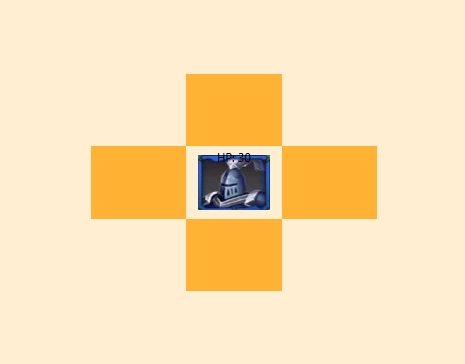
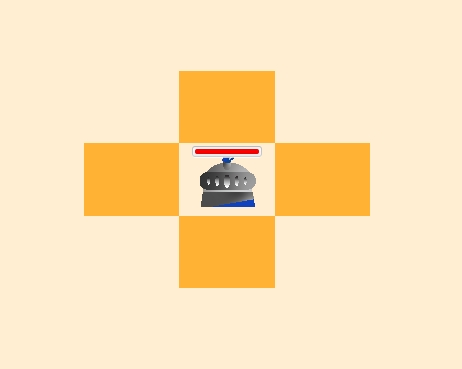
seperate unit image url

Changed region(s): [[0.1818, 0.1813, 0.8182, 0.8159]]

diff --git a/src/constant/UnitConstant.java b/src/constant/UnitConstant.java
@@ -4,7 +4,8 @@ public class UnitConstant {
         static final public String NORMAL_UNIT_NAME = "NORMAL UNIT";
         static final public int NORMAL_UNIT_MAX_HP = 30;
         static final public int NORMAL_UNIT_POWER = 3;
-        static final public String NORMAL_UNIT_IMAGE_URL = "normal-unit.jpg";
+        static final public String NORMAL_UNIT_IMAGE_URL_1 = "normal-unit-1.png";
+        static final public String NORMAL_UNIT_IMAGE_URL_2 = "normal-unit-2.png";
         static final public int[][] NORMAL_UNIT_MOVE = { { -1, -1 }, { -1, 0 }, { -1, 1 }, { 0, -1 }, { 0, 1 },
                         { 1, -1 },
                         { 1, 0 }, { 1, 1 } };
@@ -13,14 +14,16 @@ public class UnitConstant {
         static final public String FLYING_UNIT_NAME = "FLYING UNIT";
         static final public int FLYING_UNIT_MAX_HP = 25;
         static final public int FLYING_UNIT_POWER = 3;
-        static final public String FLYING_UNIT_IMAGE_URL = "flying-unit.jpg";
+        static final public String FLYING_UNIT_IMAGE_URL_1 = "flying-unit.jpg";
+        static final public String FLYING_UNIT_IMAGE_URL_2 = "flying-unit.jpg";
         static final public int[][] FLYING_UNIT_MOVE = { { -1, 0 }, { 0, -1 }, { 0, 1 }, { 1, 0 } };
         static final public int[][] FLYING_UNIT_ATTACK = NORMAL_UNIT_ATTACK;
 
         static final public String SHOOTER_UNIT_NAME = "SHOOTER UNIT";
         static final public int SHOOTER_UNIT_MAX_HP = 35;
         static final public int SHOOTER_UNIT_POWER = 3;
-        static final public String SHOOTER_UNIT_IMAGE_URL = "shooter-unit.png";
+        static final public String SHOOTER_UNIT_IMAGE_URL_1 = "shooter-unit.png";
+        static final public String SHOOTER_UNIT_IMAGE_URL_2 = "shooter-unit.png";
         static final public int[][] SHOOTER_UNIT_MOVE = { { -1, -1 }, { -1, 1 }, { 1, -1 }, { 1, 1 } };
         static final public int[][] SHOOTER_UNIT_ATTACK = { { -1, -1 }, { -1, 0 }, { -1, 1 }, { 0, -1 }, { 0, 1 },
                         { 1, -1 }, { 1, 0 }, { 1, 1 }, { -2, -2 }, { -2, 0 }, { -2, 2 }, { 0, -2 }, { 0, 2 }, { 2, -2 },
@@ -31,14 +34,16 @@ public class UnitConstant {
         static final public int VENOM_UNIT_MAX_HP = 35;
         static final public int VENOM_UNIT_POISON_POWER = 1;
         static final public int VENOM_UNIT_POISON_ROUND = 3;
-        static final public String VENOM_UNIT_IMAGE_URL = "venom-unit.jpg";
+        static final public String VENOM_UNIT_IMAGE_URL_1 = "venom-unit.jpg";
+        static final public String VENOM_UNIT_IMAGE_URL_2 = "venom-unit.jpg";
         static final public int[][] VENOM_UNIT_MOVE = FLYING_UNIT_MOVE;
         static final public int[][] VENOM_UNIT_ATTACK = { { -1, -1 }, { -1, 1 }, { 1, -1 }, { 1, 1 } };
 
         static final public String HEALER_UNIT_NAME = "HEALER UNIT";
         static final public int HEALER_UNIT_MAX_HP = 35;
         static final public int HEALER_UNIT_HEALING_POINT = 3;
-        static final public String HEALER_UNIT_IMAGE_URL = "healer-unit.png";
+        static final public String HEALER_UNIT_IMAGE_URL_1 = "healer-unit.png";
+        static final public String HEALER_UNIT_IMAGE_URL_2 = "healer-unit.png";
         static final public int[][] HEALER_UNIT_MOVE = NORMAL_UNIT_MOVE;
         static final public int[][] HEALER_UNIT_HEAL_RANGE = { { -1, -1 }, { -1, 0 }, { -1, 1 }, { 0, -1 }, { 0, 1 },
                         { 1, -1 },
@@ -47,7 +52,8 @@ public class UnitConstant {
         static final public String FREEZER_UNIT_NAME = "FREEZER UNIT";
         static final public int FREEZER_UNIT_MAX_HP = 35;
         static final public int FREEZER_UNIT_STUN_ROUND = 3;
-        static final public String FREEZER_UNIT_IMAGE_URL = "freezer-unit.jpeg";
+        static final public String FREEZER_UNIT_IMAGE_URL_1 = "freezer-unit.jpeg";
+        static final public String FREEZER_UNIT_IMAGE_URL_2 = "freezer-unit.jpeg";
         static final public int[][] FREEZER_UNIT_MOVE = { { -1, -1 }, { -1, 0 }, { -1, 1 }, { 0, -1 }, { 0, 1 },
                         { 1, -1 },
                         { 1, 0 }, { 1, 1 }, { -2, -2 }, { -2, -1 }, { -2, 0 }, { -2, 1 }, { -2, 2 }, { -1, -2 },

diff --git a/src/logic/GameLogic.java b/src/logic/GameLogic.java
@@ -42,18 +42,19 @@ public class GameLogic {
         }
         initPlayer(BoardSquareState.PLAYER1);
         initPlayer(BoardSquareState.PLAYER2);
+        setBoardSquare(new NormalUnit(BoardSquareState.PLAYER1), BoardSquareState.PLAYER1, 3, 4);
     }
 
     private static void initPlayer(BoardSquareState state) {
         int row = state == BoardSquareState.PLAYER1 ? 0 : BoardConstant.ROW_NUMBER - 1;
-        setBoardSquare(new NormalUnit(), state, row, 0);
-        setBoardSquare(new FlyingUnit(), state, row, 1);
-        setBoardSquare(new ShooterUnit(), state, row, 2);
-        setBoardSquare(new HealerUnit(), state, row, 3);
-        setBoardSquare(new VenomUnit(), state, row, 4);
-        setBoardSquare(new FreezerUnit(), state, row, 5);
-        setBoardSquare(new NormalUnit(), state, row, 6);
-        setBoardSquare(new NormalUnit(), state, row, 7);
+        setBoardSquare(new NormalUnit(state), state, row, 0);
+        setBoardSquare(new FlyingUnit(state), state, row, 1);
+        setBoardSquare(new ShooterUnit(state), state, row, 2);
+        setBoardSquare(new HealerUnit(state), state, row, 3);
+        setBoardSquare(new VenomUnit(state), state, row, 4);
+        setBoardSquare(new FreezerUnit(state), state, row, 5);
+        setBoardSquare(new NormalUnit(state), state, row, 6);
+        setBoardSquare(new NormalUnit(state), state, row, 7);
     }
 
     private static void setBoardSquare(BaseUnit unit, BoardSquareState state, int xPosition, int yPosition) {

diff --git a/src/unit/VenomUnit.java b/src/unit/VenomUnit.java
@@ -3,13 +3,16 @@ package unit;
 import base.BaseUnit;
 import base.Debuffable;
 import constant.UnitConstant;
+import logic.BoardSquareState;
 
 public class VenomUnit extends BaseUnit implements Debuffable {
     private final int poisonPower;
     private int poisonRound;
 
-    public VenomUnit() {
-        super(UnitConstant.VENOM_UNIT_NAME, UnitConstant.VENOM_UNIT_MAX_HP, 0, UnitConstant.VENOM_UNIT_IMAGE_URL);
+    public VenomUnit(BoardSquareState state) {
+        super(UnitConstant.VENOM_UNIT_NAME, UnitConstant.VENOM_UNIT_MAX_HP, 0,
+                state == BoardSquareState.PLAYER1 ? UnitConstant.VENOM_UNIT_IMAGE_URL_1
+                        : UnitConstant.VENOM_UNIT_IMAGE_URL_2);
         this.poisonPower = UnitConstant.VENOM_UNIT_POISON_POWER;
         this.poisonRound = UnitConstant.VENOM_UNIT_POISON_ROUND;
     }

diff --git a/src/gui/PlayerInfoPane.java b/src/gui/PlayerInfoPane.java
@@ -22,7 +22,7 @@ public class PlayerInfoPane extends VBox {
   public void reduceUnit() {
     unitCount -= 1;
     unitLeft.setText("Units left: " + String.valueOf(unitCount));
-    pBar.setProgress(((double) unitCount) / ((double) 8));
+    pBar.setProgress(((double) unitCount) / ((double) BoardConstant.TOTAL_UNIT));
   }
 
   public PlayerInfoPane(BoardSquareState state) {
@@ -35,7 +35,7 @@ public class PlayerInfoPane extends VBox {
       name = new Text(BoardConstant.PLAYER2_NAME);
       name.setStyle(StringUtil.getCss("-fx-fill: " + BoardConstant.PLAYER2_HEALTH_BAR_COLOR + ";"));
     }
-    unitCount = 8;
+    unitCount = BoardConstant.TOTAL_UNIT;
     player.setFont(new Font(18));
     name.setFont(new Font(36));
     unitLeft = new Text("Units left: " + String.valueOf(unitCount));

diff --git a/src/unit/FreezerUnit.java b/src/unit/FreezerUnit.java
@@ -3,12 +3,15 @@ package unit;
 import base.BaseUnit;
 import base.Debuffable;
 import constant.UnitConstant;
+import logic.BoardSquareState;
 
 public class FreezerUnit extends BaseUnit implements Debuffable {
     private int stunRound;
 
-    public FreezerUnit() {
-        super(UnitConstant.FREEZER_UNIT_NAME, UnitConstant.FREEZER_UNIT_MAX_HP, 0, UnitConstant.FREEZER_UNIT_IMAGE_URL);
+    public FreezerUnit(BoardSquareState state) {
+        super(UnitConstant.FREEZER_UNIT_NAME, UnitConstant.FREEZER_UNIT_MAX_HP, 0,
+                state == BoardSquareState.PLAYER1 ? UnitConstant.FREEZER_UNIT_IMAGE_URL_1
+                        : UnitConstant.FREEZER_UNIT_IMAGE_URL_2);
         this.stunRound = UnitConstant.FREEZER_UNIT_STUN_ROUND;
     }
 

diff --git a/src/unit/HealerUnit.java b/src/unit/HealerUnit.java
@@ -3,12 +3,15 @@ package unit;
 import base.BaseUnit;
 import base.Buffable;
 import constant.UnitConstant;
+import logic.BoardSquareState;
 
 public class HealerUnit extends BaseUnit implements Buffable {
     private int healingPoint;
 
-    public HealerUnit() {
-        super(UnitConstant.HEALER_UNIT_NAME, UnitConstant.HEALER_UNIT_MAX_HP, 0, UnitConstant.HEALER_UNIT_IMAGE_URL);
+    public HealerUnit(BoardSquareState state) {
+        super(UnitConstant.HEALER_UNIT_NAME, UnitConstant.HEALER_UNIT_MAX_HP, 0,
+                state == BoardSquareState.PLAYER1 ? UnitConstant.HEALER_UNIT_IMAGE_URL_1
+                        : UnitConstant.HEALER_UNIT_IMAGE_URL_2);
         this.healingPoint = UnitConstant.HEALER_UNIT_HEALING_POINT;
     }
 

diff --git a/src/gui/StatsPane.java b/src/gui/StatsPane.java
@@ -17,6 +17,7 @@ import javafx.scene.text.Font;
 import javafx.scene.text.Text;
 import logic.BoardSquareState;
 import logic.GameLogic;
+import unit.FlyingUnit;
 import unit.FreezerUnit;
 import unit.HealerUnit;
 import unit.VenomUnit;
@@ -75,6 +76,8 @@ public class StatsPane extends HBox {
     } else if (unit instanceof VenomUnit) {
       abilityString += "Deals " + String.valueOf(((VenomUnit) unit).getPoisonPower()) + "";
       abilityString += "\ndamage to an\nenemy for " + String.valueOf(((VenomUnit) unit).getPoisonRound()) + " turn(s)";
+    } else if (unit instanceof FlyingUnit) {
+      abilityString += "Dodge\nNormal Unit's\nAttack";
     } else {
       abilityString += "\nNone";
     }

diff --git a/src/unit/ShooterUnit.java b/src/unit/ShooterUnit.java
@@ -3,11 +3,13 @@ package unit;
 import base.Attackable;
 import base.BaseUnit;
 import constant.UnitConstant;
+import logic.BoardSquareState;
 
 public class ShooterUnit extends BaseUnit implements Attackable {
-    public ShooterUnit() {
+    public ShooterUnit(BoardSquareState state) {
         super(UnitConstant.SHOOTER_UNIT_NAME, UnitConstant.SHOOTER_UNIT_MAX_HP, UnitConstant.SHOOTER_UNIT_POWER,
-                UnitConstant.SHOOTER_UNIT_IMAGE_URL);
+                state == BoardSquareState.PLAYER1 ? UnitConstant.SHOOTER_UNIT_IMAGE_URL_1
+                        : UnitConstant.SHOOTER_UNIT_IMAGE_URL_2);
     }
 
     @Override

diff --git a/src/unit/NormalUnit.java b/src/unit/NormalUnit.java
@@ -3,12 +3,14 @@ package unit;
 import base.Attackable;
 import base.BaseUnit;
 import constant.UnitConstant;
+import logic.BoardSquareState;
 
 public class NormalUnit extends BaseUnit implements Attackable {
 
-    public NormalUnit() {
+    public NormalUnit(BoardSquareState state) {
         super(UnitConstant.NORMAL_UNIT_NAME, UnitConstant.NORMAL_UNIT_MAX_HP, UnitConstant.NORMAL_UNIT_POWER,
-                UnitConstant.NORMAL_UNIT_IMAGE_URL);
+                state == BoardSquareState.PLAYER1 ? UnitConstant.NORMAL_UNIT_IMAGE_URL_1
+                        : UnitConstant.NORMAL_UNIT_IMAGE_URL_2);
     }
 
     @Override

diff --git a/src/unit/FlyingUnit.java b/src/unit/FlyingUnit.java
@@ -3,11 +3,13 @@ package unit;
 import base.Attackable;
 import base.BaseUnit;
 import constant.UnitConstant;
+import logic.BoardSquareState;
 
 public class FlyingUnit extends BaseUnit implements Attackable {
-    public FlyingUnit() {
+    public FlyingUnit(BoardSquareState state) {
         super(UnitConstant.FLYING_UNIT_NAME, UnitConstant.FLYING_UNIT_MAX_HP, UnitConstant.FLYING_UNIT_POWER,
-                UnitConstant.FLYING_UNIT_IMAGE_URL);
+                state == BoardSquareState.PLAYER1 ? UnitConstant.FLYING_UNIT_IMAGE_URL_1
+                        : UnitConstant.FLYING_UNIT_IMAGE_URL_2);
     }
 
     @Override

diff --git a/src/gui/StatusPane.java b/src/gui/StatusPane.java
@@ -104,7 +104,7 @@ public class StatusPane extends VBox {
     currentTurn = new Text(BoardConstant.PLAYER1_NAME);
     currentTurn.setStyle(StringUtil.getCss("-fx-fill: " + BoardConstant.PLAYER1_HEALTH_BAR_COLOR + ";"));
     currentTurn.setFont(new Font(36));
-    Text text = new Text("Current Turn:");
+    Text text = new Text("Current turn:");
     text.setFont(new Font(20));
     displayCurrentTurn.getChildren().addAll(text, currentTurn);
   }

diff --git a/src/constant/BoardConstant.java b/src/constant/BoardConstant.java
@@ -3,6 +3,7 @@ package constant;
 public class BoardConstant {
     static final public int COLOUMN_NUMBER = 8;
     static final public int ROW_NUMBER = 8;
+    static final public int TOTAL_UNIT = 8;
     static final public String PLAYER1_NAME = "Ajarn Toe";
     static final public String PLAYER2_NAME = "Netkubb";
     static final public String PLAYER1_HEALTH_BAR_COLOR = "red";
